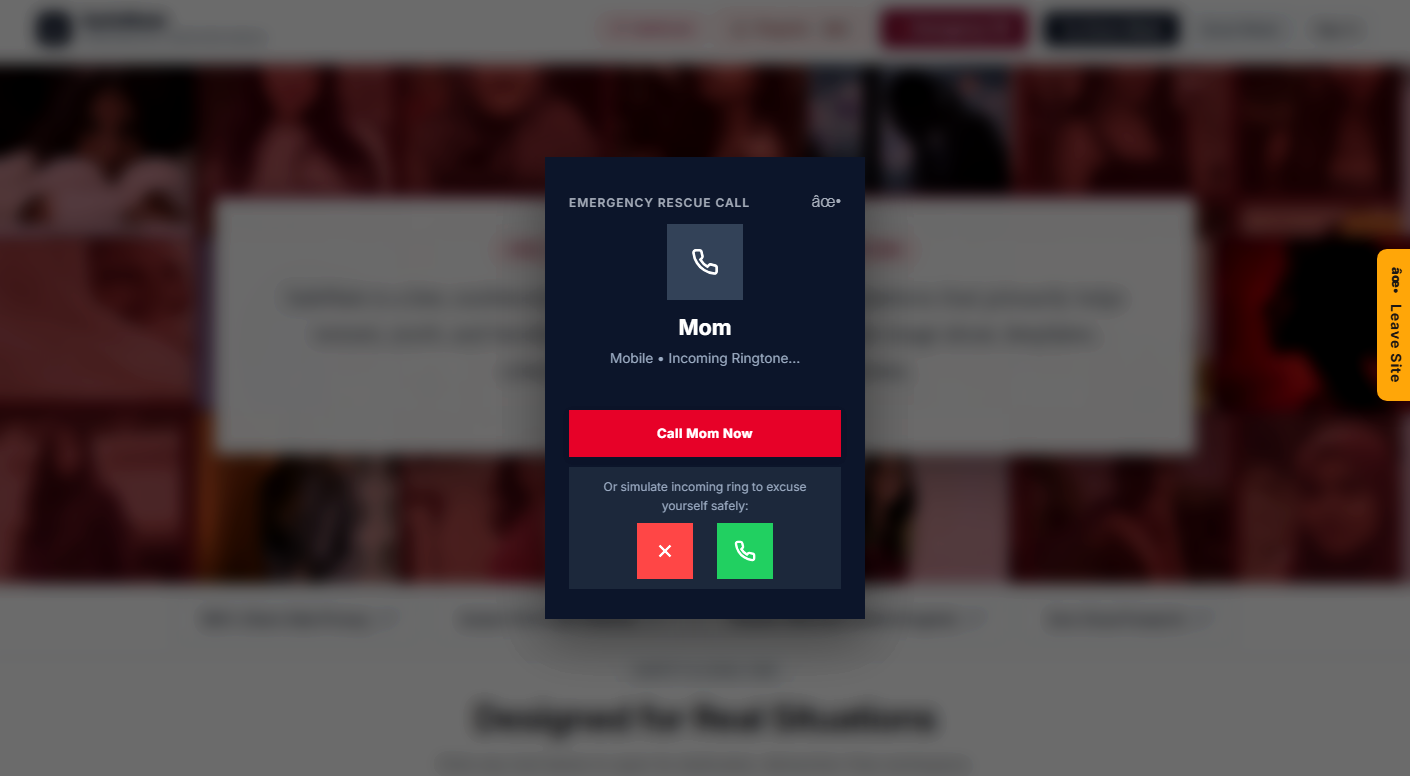
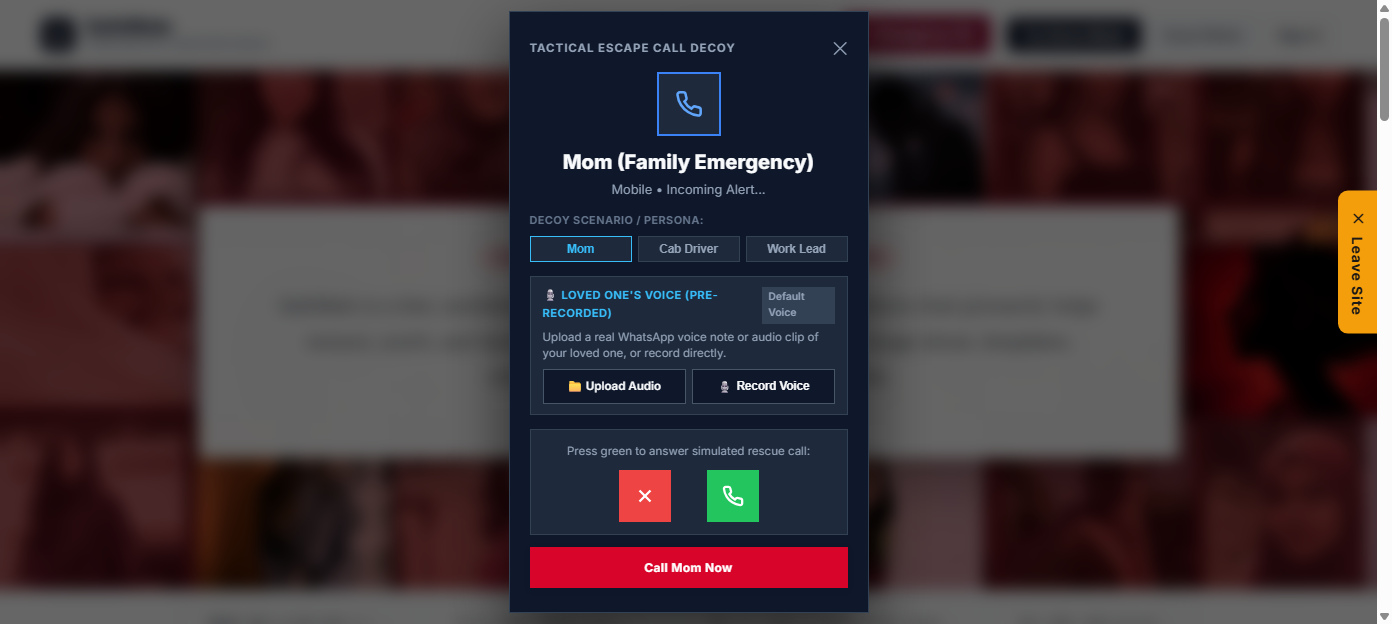
docs(readme): document pre-recorded loved ones voice decoy and refresh escape screenshots

diff --git a/README.md b/README.md
@@ -68,14 +68,25 @@ When physical violence is imminent and quiet escape is impossible, tapping **112
 
 
 
-#### 3. Fake Escape Call Simulator
-When trapped in a coercive situation, an uncomfortable dinner, or an escalating confrontation, finding an excuse to leave can be lifesaving. SafeMate's **Fake Call** simulator triggers an authentic incoming call screen with customizable ringtones, caller identities, and voice prompts, giving the survivor a socially clean exit excuse.
+#### 3. Fake Escape Call Simulator & Loved One Voice Decoy
+When trapped in a coercive situation, an uncomfortable dinner, or an escalating confrontation, finding an excuse to leave can be lifesaving. SafeMate's **Fake Escape Call** simulator triggers an authentic incoming phone call interface with customizable dual-tone ringtones, situational caller identities, and voice prompts, providing survivors with a socially clean, believable de-escalation exit.
 
-![Fake Escape Call Simulator: Incoming Ringing Screen for Discreet De-escalation](docs/screenshots/19_fake_escape_call_simulator.png)
+![Emergency SOS Modal: Integrated Stealth Exit Strategy Trigger & Decoy Pill](docs/screenshots/20_emergency_sos_escape_option.png)
 
-* **Realistic Incoming Call Screen:** Simulates an authentic full-screen incoming phone call from "Mom" (or customizable contact) with native-style answer and decline controls.
-* **Audio Ringtone & Speech Synthesis:** Triggers a genuine ringing tone via Web Audio API, followed by an automatic spoken voice prompt (*"Hey, please come home right now, there is an urgent family emergency"*) when answered to justify an immediate exit.
-* **Dual Action Protocol:** If an actual threat escalates, survivors can tap the instant red button to immediately connect a real phone call to their emergency circle or 112.
+![Fake Escape Call Simulator: Incoming Ringing Screen with Pre-Recorded Loved One Voice Settings](docs/screenshots/19_fake_escape_call_simulator.png)
+
+* **Integrated Stealth Exit Trigger:** Accessible directly within the Emergency SOS dashboard via the dedicated *Stealth Exit Strategy* launcher and quick voice configuration pill (`Voice: Default System Decoy` / `Loved One Active`).
+* **Realistic Full-Screen Telephony Cadence:** Mimics native mobile incoming call screens (iOS/Android) complete with dual-tone multi-frequency (DTMF 440Hz/480Hz) phone cadence via Web Audio API, animated pulsing avatar rings, and green/red answer-and-decline controls.
+* **Pre-Recorded Loved One Voice Integration:**
+  * **WhatsApp Voice Note & Audio Upload:** Survivors can upload authentic audio clips (`.mp3`, `.m4a`, `.wav`, `.aac`) of their mom, dad, partner, or friend for 100% natural conversational excuses.
+  * **Direct In-Browser Voice Recording:** Tap to record an authentic 10–15s voice note straight into the browser using the HTML5 `MediaRecorder` API.
+  * **Zero Cloud Footprint (100% Client-Side):** Audio files are encoded and stored strictly inside local browser storage (`localStorage`). No voice clips are ever uploaded to remote servers or third-party clouds.
+  * **One-Click Audio Preview & Reset:** Features live test playback (`Play ▶`) to preview audio volume and instant single-tap reversion (`Reset ✕`) back to system defaults.
+* **Out-of-the-Box Multi-Turn Scenario Decoys:** If no custom audio is uploaded, SafeMate defaults to three realistic, conversational scenarios powered by neural speech synthesis with animated voice waveforms:
+  * **Family Emergency (Mom):** *"Hey, where are you right now? Dad is asking for you, please come home immediately. We are waiting outside with the car."*
+  * **Cab Driver (Waiting Outside):** *"Hello ma'am, I am outside your location in the silver sedan with hazard lights on. Traffic police is asking me to move. Please come down quickly."*
+  * **Work Escalation (Team Lead):** *"Hi, sorry to interrupt your evening, but our production server has a critical incident. The client VP is on the emergency bridge and asking for you."*
+* **Live Equalizer Waveform & Emergency Escalation:** Renders an animated 5-bar voice equalizer and real-time subtitle feed while the caller speaks. If the situation abruptly escalates into active violence, survivors can tap the instant red button to immediately connect a real phone call to `112` or their verified emergency contacts.
 
 ---
 
